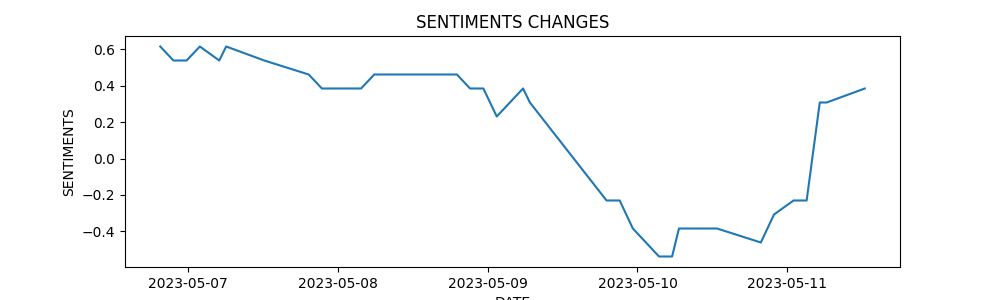
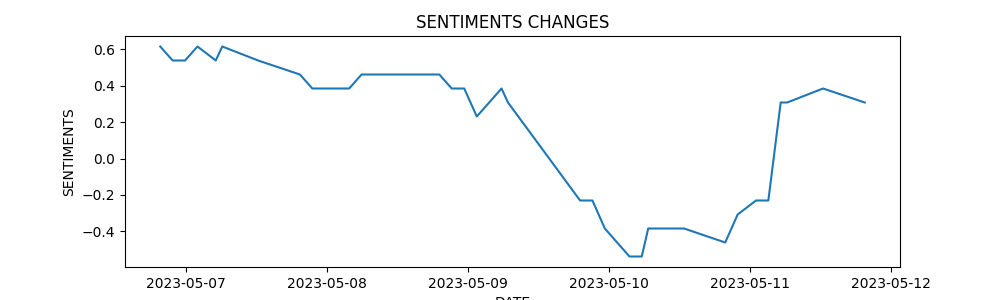
Commit

diff --git a/finance.html b/finance.html
@@ -13,7 +13,7 @@
                 <img style = "width:70px;" src="image/MNAZ.gif" alt="MNAZ Web">
                 <button id="darkModeToggle">Toggle Dark Mode</button>
               </header>
-              <h2>Date: 2023-05-11 12:26:09.902959</h2>
+              <h2>Date: 2023-05-11 19:32:20.067329</h2>
               <div class="container">
                 <div class="half">
                   <h2>News</h2>
@@ -21,19 +21,19 @@
                   <a href = "https://www.investing.com/currencies/usd-jpy-news" target = "_blank">Scraped From Investing.com </a>
                   <ul id="newsList" class="hidden">
                       
-<li style = 'font-weight: bold;'>Nasdaq rallies as investors cheer inflation data, Alphabet<ul><li style = 'font-size: smaller;font-style: italic;'>Positive</li></ul></li>
+<li style = 'font-weight: bold;'>U.S. PPI, Disney+ subscribers flee, Yellen's new warning - what's moving markets<ul><li style = 'font-size: smaller;font-style: italic;'>Neutral</li></ul></li>
+<li style = 'font-weight: bold;'>4 big analyst picks: Roblox a buy after Q1<ul><li style = 'font-size: smaller;font-style: italic;'>Positive</li></ul></li>
 <li style = 'font-weight: bold;'>U.S. CPI rises by slower-than-expected 4.9% in April<ul><li style = 'font-size: smaller;font-style: italic;'>Neutral</li></ul></li>
-<li style = 'font-weight: bold;'>U.S. inflation looms, debt ceiling talks, Disney reports - what's moving markets<ul><li style = 'font-size: smaller;font-style: italic;'>Neutral.</li></ul></li>
-<li style = 'font-weight: bold;'>Asian stocks rise as US inflation cools<ul><li style = 'font-size: smaller;font-style: italic;'>Positive</li></ul></li>
+<li style = 'font-weight: bold;'>Dow futures edge lower; Disney results, PPI data in focus<ul><li style = 'font-size: smaller;font-style: italic;'>Neutral</li></ul></li>
+<li style = 'font-weight: bold;'>Marketmind: Disinflation cheer, debt cap fear<ul><li style = 'font-size: smaller;font-style: italic;'>Neutral</li></ul></li>
+<li style = 'font-weight: bold;'>European stocks and dollar rebound after China deflation jolt<ul><li style = 'font-size: smaller;font-style: italic;'>The sentiment of the text is positive.</li></ul></li>
+<li style = 'font-weight: bold;'>Google I/O 2023: Search king adds AI to respond to Microsoft challenge<ul><li style = 'font-size: smaller;font-style: italic;'>Neutral</li></ul></li>
 <li style = 'font-weight: bold;'>Dow futures steady, Disney moves 4.6% lower after earnings<ul><li style = 'font-size: smaller;font-style: italic;'>Neutral</li></ul></li>
 <li style = 'font-weight: bold;'>Nasdaq rallies as investors cheer inflation data, Alphabet<ul><li style = 'font-size: smaller;font-style: italic;'>Positive</li></ul></li>
 <li style = 'font-weight: bold;'>Stocks rise as U.S. inflation trends lower, bond yields slide<ul><li style = 'font-size: smaller;font-style: italic;'>Positive</li></ul></li>
 <li style = 'font-weight: bold;'>Stock market today: Dow ends lower as energy slips, but tech rides Google higher<ul><li style = 'font-size: smaller;font-style: italic;'>Neutral</li></ul></li>
 <li style = 'font-weight: bold;'>Analysis: Inflation may not be cooling fast enough to justify stock valuations<ul><li style = 'font-size: smaller;font-style: italic;'>Negative</li></ul></li>
 <li style = 'font-weight: bold;'>Some technical indicators say S&P 500 could hit 4900 by March 2024 - BofA<ul><li style = 'font-size: smaller;font-style: italic;'>Neutral</li></ul></li>
-<li style = 'font-weight: bold;'>S&P 500 climbs on Google-led tech rally as easing inflation stokes Fed pause bets<ul><li style = 'font-size: smaller;font-style: italic;'>Positive</li></ul></li>
-<li style = 'font-weight: bold;'>U.S. CPI rises by slower-than-expected 4.9% in April<ul><li style = 'font-size: smaller;font-style: italic;'>Neutral</li></ul></li>
-<li style = 'font-weight: bold;'>Dow futures fall 45 pts; key inflation data looms large<ul><li style = 'font-size: smaller;font-style: italic;'>Neutral</li></ul></li>
                   </ul>
                 </div>
                 <div class="half">
@@ -44,22 +44,22 @@
                 <p style = 'font-weight:bold;'>ChatGPT SENTIMENTS</p>
                 <ul>
                     <li style = 'font-size: smaller;font-style: italic;'>
-                        Positive: 5
+                        Positive: 4
                     </li>
                     <li style = 'font-size: smaller;font-style: italic;'>
                         Negative: 1
                     </li>
                     <li style = 'font-size: smaller;font-style: italic;'>
-                        Neutral: 7
+                        Neutral: 8
                     </li>
                 </ul>
                 <p style = 'font-weight:bold;'>VADER SENTIMENTS</p>
                 <ul>
                     <li style = 'font-size: smaller;font-style: italic;'>
-                        Positive: 23%
+                        Positive: 15%
                     </li>
                     <li style = 'font-size: smaller;font-style: italic;'>
-                        Negative: 38%
+                        Negative: 46%
                     </li>
                     <li style = 'font-size: smaller;font-style: italic;'>
                         Neutral: 38%
